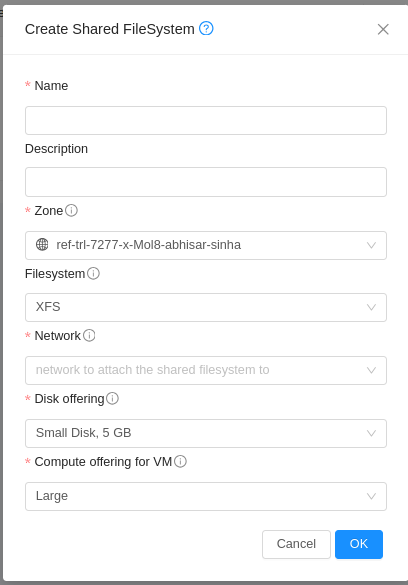
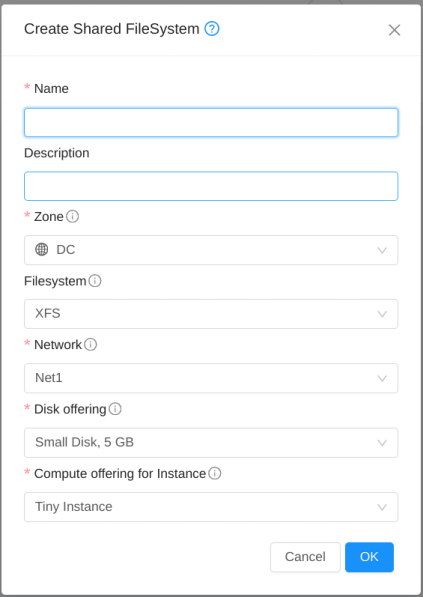
Rename Shared FileSystem VM to Shared FileSystem Instance

diff --git a/source/adminguide/storage.rst b/source/adminguide/storage.rst
@@ -1551,7 +1551,7 @@ Click on Create Shared FileSystem, provide the following details and then click 
 #. Zone
 #. Format: Filesystem format (XFS, EXT4) which will be installed on the Shared FileSystem.
 #. Network: Guest network to which the Shared FileSystem will be attached.
-#. Compute offering: Offering using which the Shared FileSystem VM will be deployed.
+#. Compute offering: Offering using which the Shared FileSystem Instance will be deployed.
 #. Disk offering: Offering used by the underlying data volume.
 #. Size, MinIops and MaxIos: Displayed only when the disk offering takes custom size and custom iops.
 
@@ -1573,26 +1573,25 @@ Supported lifecycle operations are :
 
 #. Update name and description of the Shared FileSystem
 
-#. Stop/Start Shared FileSystem - This will Stop and Start the Shared FileSystem VM 
+#. Stop/Start Shared FileSystem - This will Stop and Start the Shared FileSystem Instance 
 
-#. Restart Shared FileSystem - Reboots the Shared FileSystem VM. If Cleanup option is provided then the
-   VM state is cleaned up and restored to the original template. Configurations related to setting up the
-   NFS export will be done again. This will not affect the data on the VM.
-   Shared FileSystem.
+#. Restart Shared FileSystem - Reboots the Shared FileSystem Instance. If Cleanup option is provided then the
+   Instance state is cleaned up and restored to the original template. Configurations related to setting up the
+   NFS export will be done again. This will not affect the data on the volume attached to the Instance.
    |restart-sharedfs.png|
 
 #. Change Disk Offering - The disk offering of the underlying volume can be changed. Whether live resize
    is supported or not depends on the hyervisor.
    Please note that the size of the Shared FileSystem can only be increased.
 
-#. Change Service Offering - The service offering of the Shared FileSystem VM can be changed as required.
+#. Change Service Offering - The service offering of the Shared FileSystem Instance can be changed as required.
    This can only be done when the Shared FileSystem is in Stopped state.
 
 #. Add/Remove Network - Guest networks can be added to or removed from the Shared FileSystem.
-   NFS share is exported to all networks. So VMs on different networks can mount the
+   NFS share is exported to all networks. So instances on different networks can mount the
    same share using the respective IP addresses as given on the Access tab.
    APIs serving these operations are addNicToVirtualMachine and removeNicToVirtualMachine
-   called with the Shared FileSystem VM ID.
+   called with the Shared FileSystem Instance ID.
    Please note that the added networks must not be on overlapping CIDR ranges.
    |add-remove-sharedfs-network.png|
 
@@ -1600,14 +1599,14 @@ Supported lifecycle operations are :
    Expunge timeout is given by the global setting 'sharedfs.cleanup.delay'.
 
 
-Shared FileSystem VM
+Shared FileSystem Instance
 ~~~~~~~~~~~~~~
-The Shared FileSystem VM is stateless and HA enabled. A new VM is deployed and will start
+The Shared FileSystem Instance is stateless and HA enabled. A new instance is deployed and will start
 serving the NFS share if the host or VM goes down.
 The VM is installed with the SystemVM template which is also used by the CPVM and SSVM.
 
-The Shared FileSystem VM can be seen in the Instance Tab as well. It's name is prefixed by the
-Shared FileSystem name. Actions that might interfere with Shared FileSystem operations are blocked or not shown.
+The Shared FileSystem Instance can be seen in the Instances Tab as well. It's name is prefixed by the string
+"sharedfs-" plus the Shared FileSystem name. Actions that might interfere with Shared FileSystem operations are blocked or not shown.
 Basic operaions like Start, Stop and Reboot are allowed for troubleshooting.
 Users can access the VM using the 'View Console' button for troubleshooting although it is not
 required during normal operations.
@@ -1615,14 +1614,14 @@ required during normal operations.
 Service Offering
 ~~~~~~~~~~~~~~~~
 There are two global settings that control what should be the minimum RAM size and minimum
-CPU count for the Shared FileSystem VM : 'sharedfsvm.min.cpu.count' and 'sharedfsvm.min.ram.size`.
+CPU count for the Shared FileSystem Instance : 'sharedfsvm.min.cpu.count' and 'sharedfsvm.min.ram.size`.
 Only those offerings which meet these settings and have HA enabled are shown in the create form.
 
 Shared FileSystem Data Volume
 ~~~~~~~~~~~~~~~~~~~~~~
 The data volume is also visible to the users. It is recommended to use the Shared FileSystem UI/API to
 manage the data but users or admin can perform actions directly on the data volume or the root volume
-as well if they wish. Attaching and detaching a disk is not allowed on a Shared FileSystem VM.
+as well if they wish. Attaching and detaching a disk is not allowed on a Shared FileSystem Instance.
 
 .. |AttachDiskButton.png| image:: /_static/images/attach-disk-icon.png
    :alt: Attach Disk Button.

diff --git a/source/conceptsandterminology/concepts.rst b/source/conceptsandterminology/concepts.rst
@@ -539,11 +539,11 @@ About Shared FileSystems
 ~~~~~~~~~~~~~~~~~~~~~~~~~~~~~~~~~~~~~
 CloudStack users can setup CloudStack managed Shared FileSystems which can be mounted via NFS.
 Users can choose the service offering, disk offering, filesystem format and network.
-The Shared FileSystem is deployed on a VM with the specified service offering.
-A data volume is created using the given disk offering and attached to the VM.
+The Shared FileSystem is deployed on an Instance with the specified service offering.
+A data volume is created using the given disk offering and attached to the Instance.
 User can specify which filesystem to use (XFS, EXT4).
 The filesystem is created on the data volume and exported via NFS.
-All VMs in the guest network can mount and read/write to the Shared FileSystem.
+All Instances in the guest network can mount and read/write to the Shared FileSystem.
 
 About Physical Networks
 ~~~~~~~~~~~~~~~~~~~~~~~
